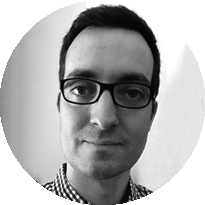
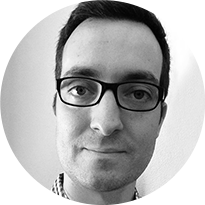
Added CSS and Images for Testmonials

diff --git a/django/static/site/css/main_older_browsers.css b/django/static/site/css/main_older_browsers.css
@@ -103,7 +103,8 @@ html, body { width: 100%; height: 100%;  font-family: "Open Sans", sans-serif; f
 	.testimonial-container:first-child { display: none !important; }
 	.testimonial { position: relative; width: 80%; height: 100%; margin-left: 10%; }
 	.testimonial > p { margin:0; padding:0; text-align: center; }
-	.testimonial-image { position: relative; width: 100%; height: 36%; background: url(../img/testimonial_image.png) no-repeat center center; background-size: contain; }
+	.testimonial-image-1 { position: relative; width: 100%; height: 36%; background: url(../img/testimonial_image_1.png) no-repeat center center; background-size: contain; }
+	.testimonial-image-2 { position: relative; width: 100%; height: 36%; background: url(../img/testimonial_image_2.png) no-repeat center center; background-size: contain; }
 	.testimonial-text { width: 100%; text-align: justify; margin-top: 5% !important; padding-left: 8%; }
 	.testimonial-separator { margin: 2% 0 2% 30% !important; width: 40%; height: 1px; background-color: #bd90df; }
 	.testimonial-user{ margin: 0; padding: 0 0 0 8%; }
@@ -260,7 +261,8 @@ html, body { width: 100%; height: 100%;  font-family: "Open Sans", sans-serif; f
 	.testimonial-container:first-child { display: none !important; }
 	.testimonial { position: relative; width: 80%; height: 100%; margin-left: 10%; }
 	.testimonial > p { margin:0; padding:0; text-align: center; }
-	.testimonial-image { position: relative; width: 100%; height: 36%; background: url(../img/testimonial_image.png) no-repeat center center; background-size: contain; }
+	.testimonial-image-1 { position: relative; width: 100%; height: 36%; background: url(../img/testimonial_image_1.png) no-repeat center center; background-size: contain; }
+	.testimonial-image-2 { position: relative; width: 100%; height: 36%; background: url(../img/testimonial_image_2.png) no-repeat center center; background-size: contain; }
 	.testimonial-text { width: 100%; text-align: justify; margin-top: 5% !important; padding-left: 8%; }
 	.testimonial-separator { margin: 2% 0 2% 30% !important; width: 40%; height: 1px; background-color: #bd90df; }
 	.testimonial-user{ margin: 0; padding: 0 0 0 8%; }
@@ -407,7 +409,8 @@ html, body { width: 100%; height: 100%;  font-family: "Open Sans", sans-serif; f
 	#page4 { position:relative; width: 100%; height: 100%; background: url( "../img/bg4.png" ) no-repeat; background-size: cover; background-position: center; }
 	.testimonial-container { position: relative; top:25%; width: 50%; height: 40%; float: left;}
 	.testimonial { float: left; position: relative; width: 65%; height: 100%; }
-	.testimonial-image { float: left; position: relative; width: 35%; height: 100%; background: url(../img/testimonial_image.png) no-repeat right center; background-size: 54%; }
+	.testimonial-image-1 { float: left; position: relative; width: 35%; height: 100%; background: url(../img/testimonial_image_1.png) no-repeat right center; background-size: 54%; }
+	.testimonial-image-2 { float: left; position: relative; width: 35%; height: 100%; background: url(../img/testimonial_image_2.png) no-repeat right center; background-size: 54%; }
 	.testimonial-text { width: 60%; text-align: justify; margin-top: 20%; padding-left: 8%; }
 	.testimonial-separator { margin: 2% 0 2% 8%; width: 40%; height: 1px; background-color: #bd90df; }
 	.testimonial-user{ margin: 0; padding: 0 0 0 8%; }

diff --git a/django/static/site/css/main.css b/django/static/site/css/main.css
@@ -200,7 +200,8 @@ body { width: 100%; height: 100%; overflow: hidden; font-family: "open_sans_regu
 /** Page 3 elements */
 .testimonial-container { position: absolute; top:25%; width: 100%; height: 40%; }
 .testimonial { float: left; position: relative; width: 65%; height: 100%; }
-.testimonial-image { float: left; position: relative; width: 35%; height: 100%; background: url(../img/testimonial_image.png) no-repeat right center; background-size: 54%; }
+.testimonial-image-1 { float: left; position: relative; width: 35%; height: 100%; background: url(../img/testimonial_image_1.png) no-repeat right center; background-size: 54%; }
+.testimonial-image-2 { float: left; position: relative; width: 35%; height: 100%; background: url(../img/testimonial_image_2.png) no-repeat right center; background-size: 54%; }
 .testimonial-text { width: 60%; text-align: justify; margin-top: 20%; padding-left: 8%; }
 .testimonial-separator { margin: 2% 0 2% 8%; width: 40%; height: 1px; background-color: #bd90df; }
 .testimonial-user{ margin: 0; padding: 0 0 0 8%; }
@@ -307,6 +308,9 @@ a.switcher { text-decoration: none; display: block; width: 100%; text-align: cen
     #r1ul > li:last-child { margin-top: 15%; }
     #backers-container { margin-top: 2%; }
 
+}
+
+
 
 /** 1366 - 1440 */
 @media screen and (min-width: 1366px) and (max-width: 1920px){
@@ -319,6 +323,3 @@ a.switcher { text-decoration: none; display: block; width: 100%; text-align: cen
     #backers-container { margin-top: 2%; }
 
 }
-
-
-

diff --git a/django/templates/site/home.html b/django/templates/site/home.html
@@ -102,7 +102,7 @@
             </div>
             <div id="l3" class="section-item">
                 <div class="testimonial-container">
-                    <div class="testimonial-image"></div>
+                    <div class="testimonial-image-1"></div>
                     <div class="testimonial deep-purple">
                         <p class="testimonial-text f16 light-italic">
                             <span id="open-quote" class="quote"></span>
@@ -192,7 +192,7 @@
             </div>
             <div id="r3" class="section-item">
                 <div class="testimonial-container">
-                    <div class="testimonial-image">
+                    <div class="testimonial-image-2">
                     </div>
                     <div class="testimonial deep-purple">
                         <p class="testimonial-text f16 light-italic">

diff --git a/django/templates/site/home_older_browsers.html b/django/templates/site/home_older_browsers.html
@@ -153,7 +153,7 @@
         <!-- Page 4 -->
         <div id="page4">
             <div class="testimonial-container">
-                <div class="testimonial-image">
+                <div class="testimonial-image-1">
                 </div>
                 <div class="testimonial deep-purple">
                     <p class="testimonial-text f16 light-italic">
@@ -167,7 +167,7 @@
                 </div>
             </div>
             <div class="testimonial-container">
-                <div class="testimonial-image">
+                <div class="testimonial-image-2">
                 </div>
                 <div class="testimonial deep-purple">
                     <p class="testimonial-text f16 light-italic">
